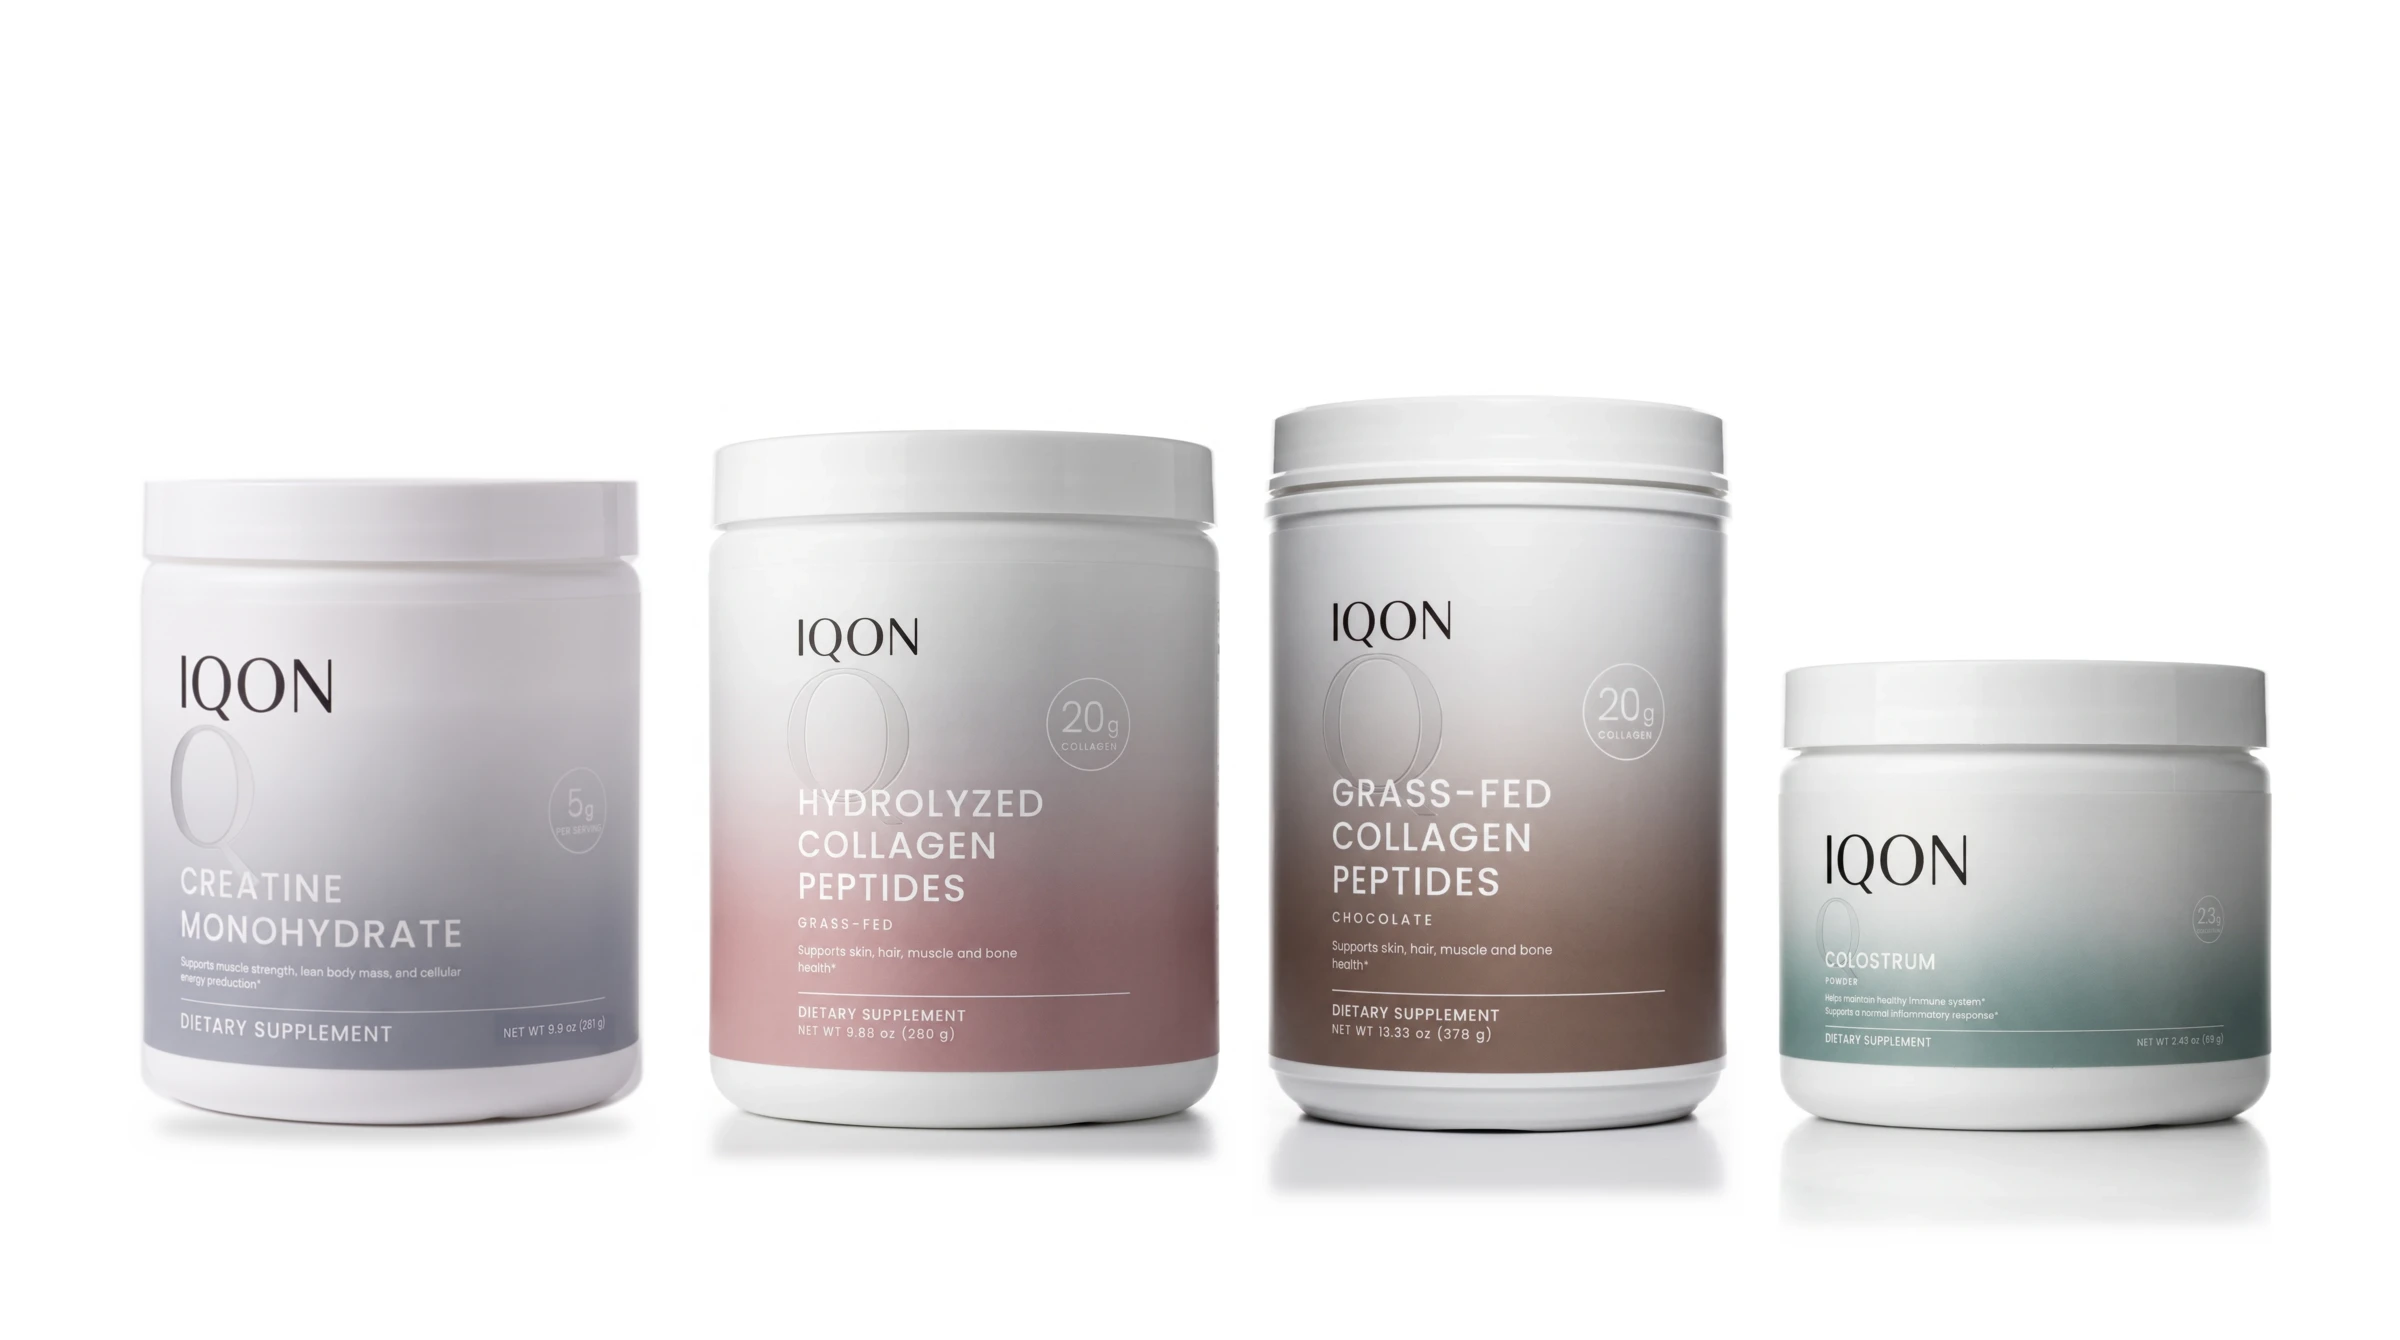
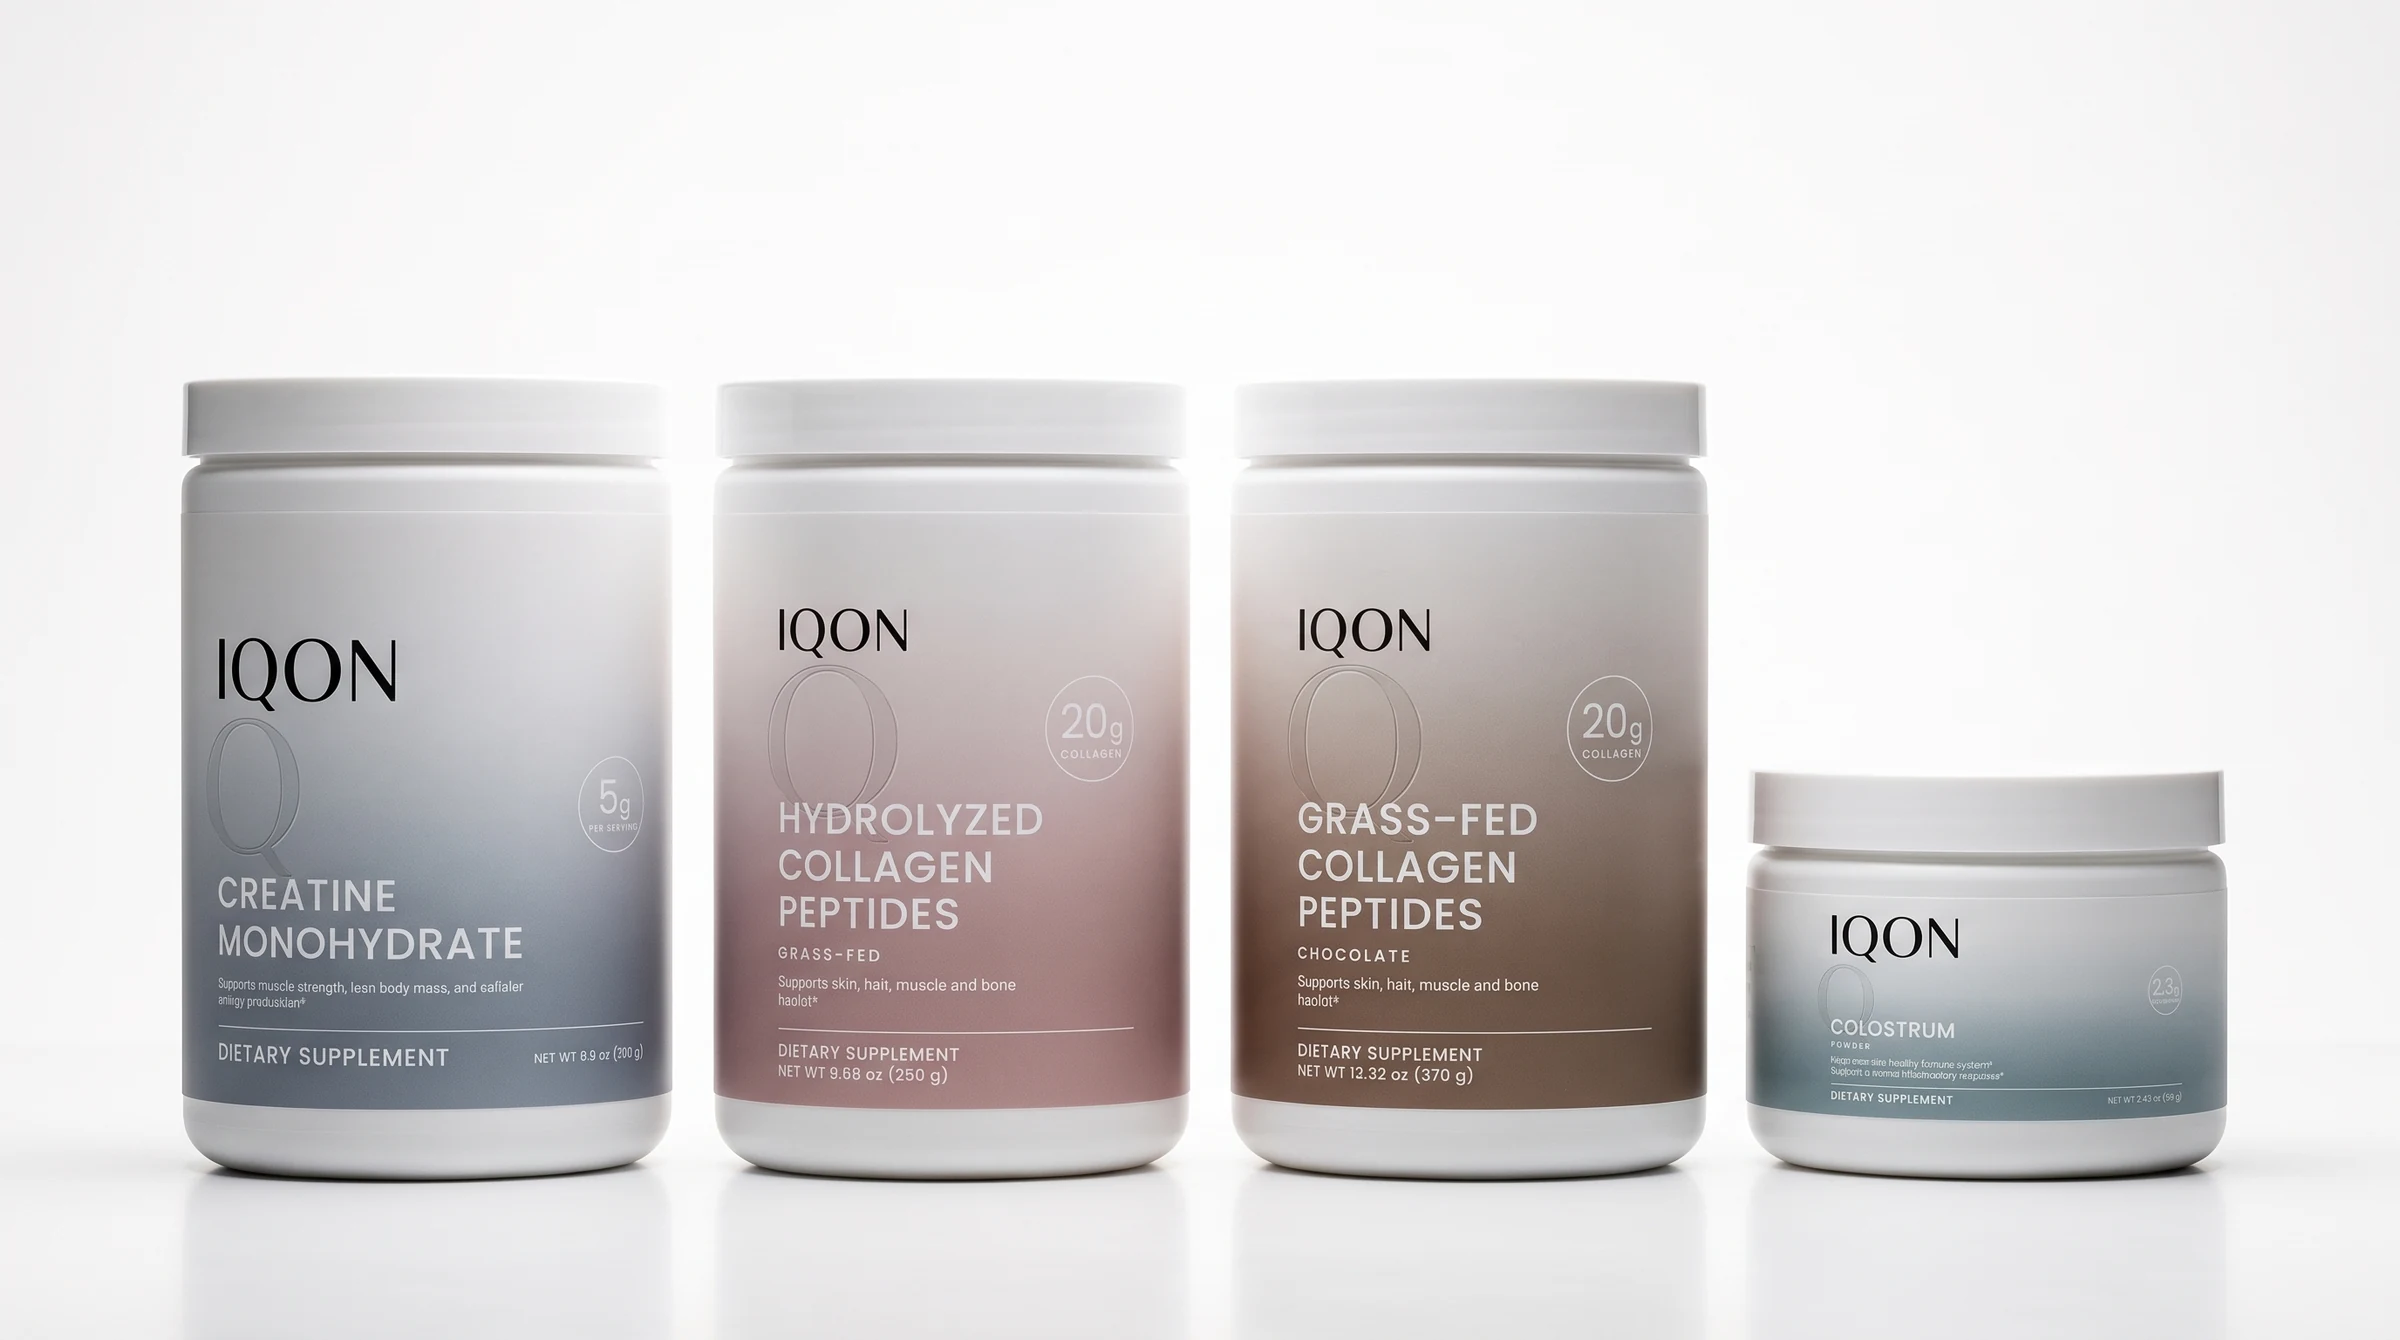
Restore original campaign imagery and give product photos more space

diff --git a/app/globals.css b/app/globals.css
@@ -59,7 +59,8 @@ button:disabled {cursor:not-allowed;opacity:.48;}
 
 /* Each card shares the original packshot ratio, so its background fills the frame. */
 .product-grid .product-visual{aspect-ratio:145/180;background:#f5f5f5}
-.supplied-product .product-visual>img{object-fit:cover;transform:none}
+.supplied-product .product-visual{background:#fff}
+.supplied-product .product-visual>img{object-fit:contain;padding:9%;background:#fff;transform:none}
 .supplied-product .product-visual:hover>img{transform:none}
 .supplied-product .product-hover{display:none}
 .supplied-product .product-card-title{margin-top:18px;gap:6px}
@@ -84,6 +85,7 @@ button:disabled {cursor:not-allowed;opacity:.48;}
 .catalog-crosslink.supplied-crosslink>img{height:auto;aspect-ratio:1200/509;align-self:center;object-fit:cover}
 .supplied-editorial>img{height:auto;aspect-ratio:120/67;align-self:center;object-fit:contain}
 .supplied-product-detail .gallery-main{aspect-ratio:145/180}
+.supplied-product-detail .gallery-main>img[src^='/images/supplements/0'],.supplied-product-detail .gallery-main>img[src^='/images/supplements/1']:not([src^='/images/supplements/19_']){padding:9%;background:#fff}
 .supplied-product-detail .gallery-thumbs button{width:64px;height:auto;aspect-ratio:145/180;background:#f6f6f6}
 .supplied-product-detail .gallery-thumbs img{width:100%;height:100%;object-fit:contain}
 .mega-product img[src^='/images/supplements/']{aspect-ratio:145/180}

diff --git a/docs/supplement-images.md b/docs/supplement-images.md
@@ -22,14 +22,20 @@ No prices or inventory were supplied. These records display Coming soon and cann
 
 The powders group appears in the homepage hero; the complete lineup appears on supplement/all collection banners and the skincare cross-link. Capsule and powder group images appear in the relevant product editorials.
 
-## Studio consistency pass — September 9, 2026
+## Current scope — product photography only
+
+After the studio pass, the user asked to restore the previous hero, banners, and group scenes exactly. Images 19–25 are restored from the pre-pass version, including their original lighting. Keep these editorial assets unchanged unless the user explicitly requests changes to them.
+
+The improved individual photographs remain. Product-card images and individual product-gallery photographs receive a 9% inset inside the existing frames so containers appear approximately 18% smaller with more breathing room. Card sizes, grids, page spacing, typography, logo, hero layout, and skincare are unchanged. Group photographs in product galleries retain their original presentation.
+
+## Studio consistency pass — September 9, 2026 (superseded scope)
 
 All 26 photographs were visually reviewed. The unflavored collagen packshot is the lighting and material reference: white seamless sweep, soft dimensional light, muted label gradients, a thin IQON wordmark, and restrained reflections.
 
 - Retained matching original primary shots: unflavored collagen, chocolate collagen, colostrum, colon cleanse, Keto-5, and resveratrol. The NMN hand photograph also remains.
 - Rebuilt primary shots: creatine, GLP-1, liver support, NMN, and gummies. Creatine's final flat label and final reference render were inspected to replace its older centered label layout. The other existing primary shots supplied product identity references; this is not a certification that every production dieline was checked.
 - Refined alternate scenes for creatine, chocolate collagen, liver, gummies, colon cleanse, and colostrum. Removed visible marks and corrected inconsistent label treatments. Small printed text in generated scenes remains illustrative; approved label artwork and commerce records remain authoritative.
-- Replaced all seven group scenes with compositions made from the selected individual product photographs. Label pixels and container shapes are reused rather than generated again. Resveratrol's alternate image uses the same faithful packshot with new framing and a soft white setting.
+- Initially replaced all seven group scenes with compositions made from the selected individual product photographs; these group changes have since been reverted at the user's request. Resveratrol's alternate individual image uses the same faithful packshot with new framing and a soft white setting.
 - Higgsfield supplied the image refinements. Its media sandbox performed label-area compositing, white-background cleanup, framing, group assembly, and WebP export. Rejected generations that redesigned packaging were not installed.
 
 The image paths stay stable so every catalog, gallery, search, and editorial placement receives the corrected artwork together. No product availability, price, ingredients, or purchase behavior changed.
